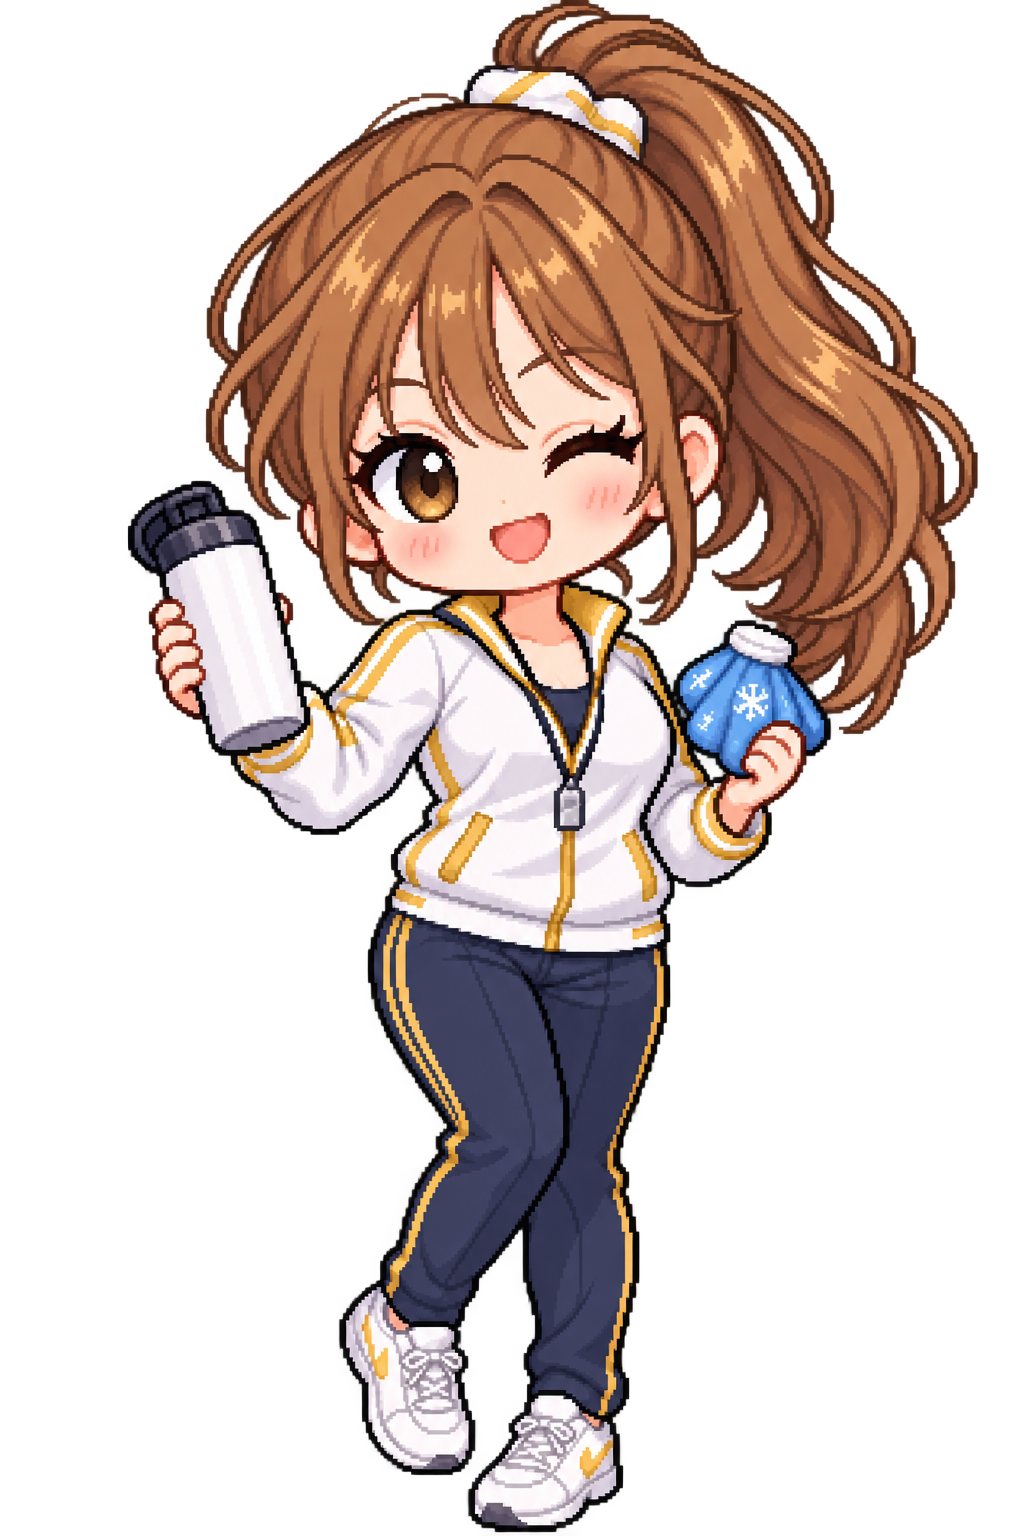
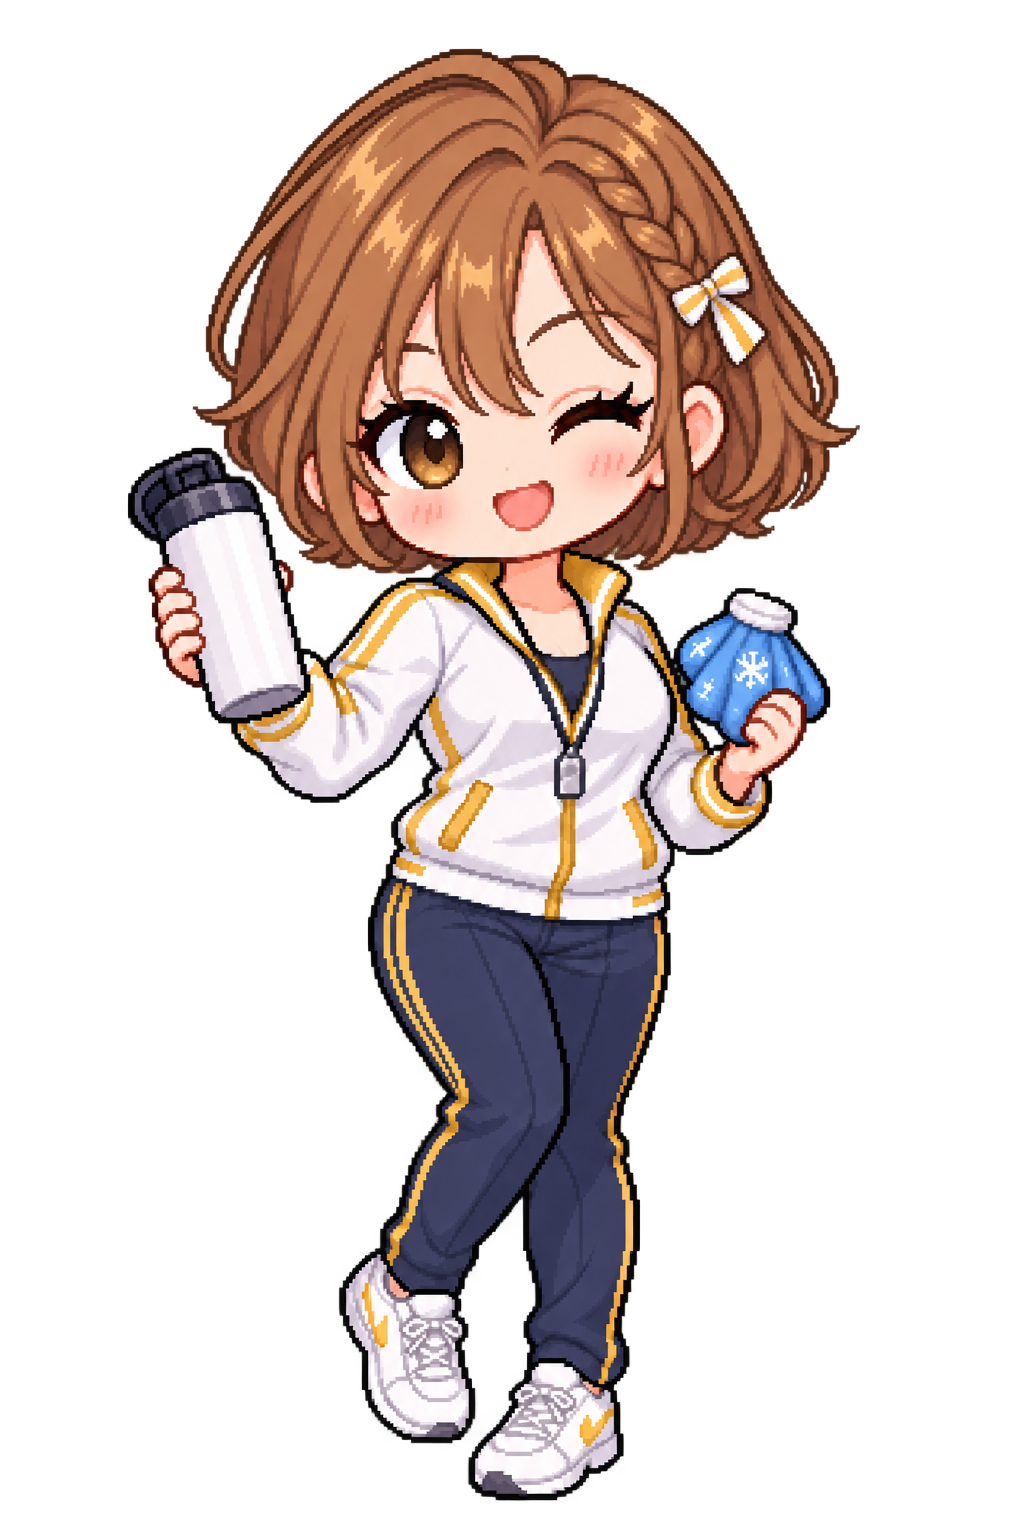
Give Mirae and Harin distinct hairstyles

diff --git a/개발노트.md b/개발노트.md
@@ -12,6 +12,7 @@
 - PR #25: 1~2년 주기의 자유행동(연습·데이트·무작위 취미·휴식)을 배포했습니다. 데이트에서 현재 인연을 만나거나 시기·조건에 맞는 히로인을 이름으로 찾아갈 수 있습니다. 알아가는 인연은 여러 명을 동시에 유지하며 상대별 호감·대화 기록을 저장합니다.
 - `expand-heroine-roster` 브랜치: 새 히로인 9명(총 15명), 인물별 첫 만남 1·알아가기 2·교제 후 2·배우자 1, 총 54장과 전용 엔딩 9종. 자유행동 후보에도 자동 연결됩니다. 새 그림은 인물별 대표 1장씩이며 기존 귀여운 작은 픽셀 비율을 유지하고 머리색·눈매·소품으로 구분합니다. 길쭉한 비율의 재제작 시안은 채택하지 않았습니다. 아직 머지 전입니다.
 - 새 인물: 고교 한지우·서미래·윤채아·강민서·백소율, 프로 오하린(20세 이상·1군)·정예린(20세 이상), MLB 에밀리 워커·제이든 박(20세 이상). 미국 두 인물은 현지 생활 기반을 뜻하는 `외국인: true`로 국내 복귀 작별 규칙을 적용합니다. 라이벌 이름은 사용자 설정에 맞춰 백도현으로 통일했습니다.
+- 머리 모양 보완: 서미래는 붉은 갈색의 높은 올림머리, 오하린은 밝은 갈색의 옆머리 땋은 단발로 교체했습니다. 기존 픽셀 화풍·얼굴·의상·소품을 유지하고 수정 프롬프트는 `assets/fine-pixel/heroine-expansion.json`의 `edits`에 남겼습니다.
 - 검증: `heroine-roster-check.js` 54장·162개 선택 결과/등장 경계/개별 교류/작별/엔딩, `heroine-roster-ui-check.js` 9명 첫 만남 그림/320·390·1280px/저장·갤러리, 기존 romance/free-time/date/ending 검사 통과. 자동 플레이 200판 오류 0. 그림 모음은 `assets/fine-pixel/index.html?group=신규`입니다.
 
 ## 2. 사용자와 일하는 방식
